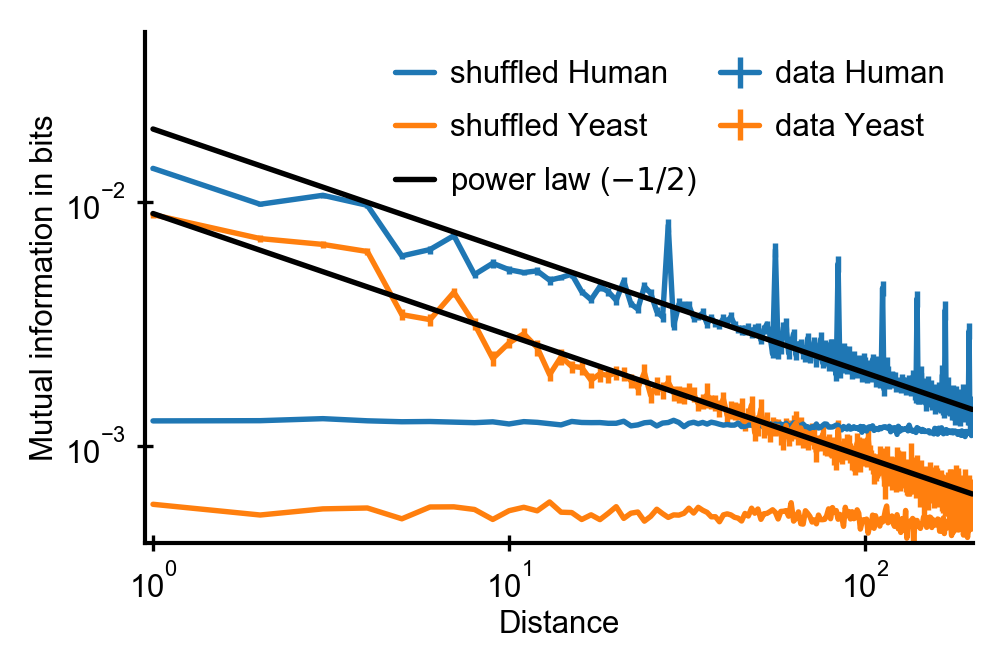
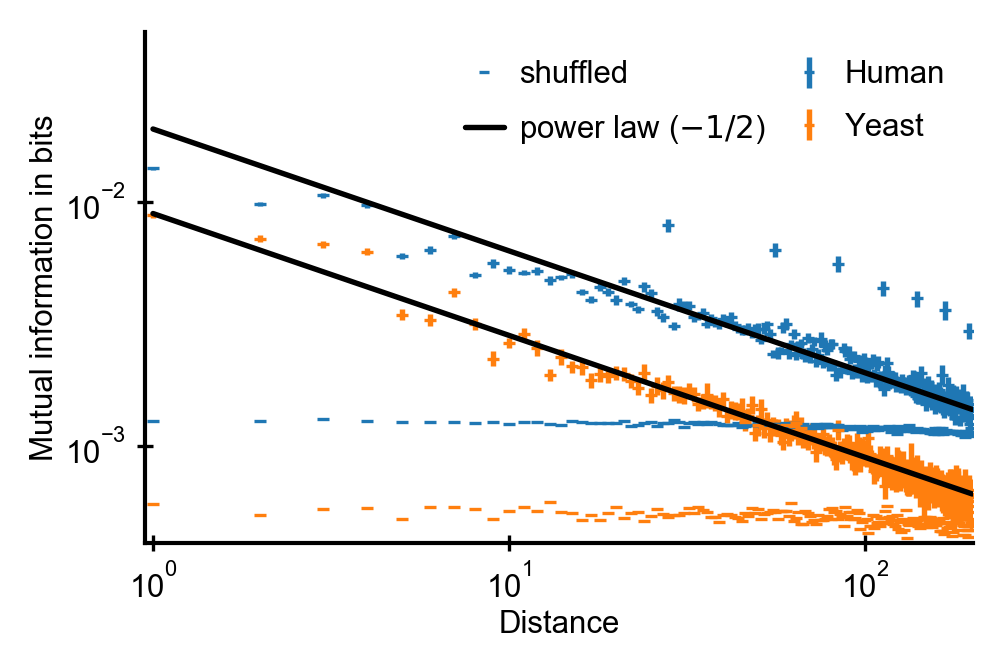
updated docs

diff --git a/docs/code/tissuedistributions/run.py b/docs/code/tissuedistributions/run.py
@@ -1,0 +1,41 @@
+import numpy as np
+import pandas as pd
+
+import sys
+sys.path.append('../')
+from lib import *
+
+proteinatlas = pd.read_csv('../../data/proteinatlas.tsv.zip', sep='\t')
+tissues = [c for c in proteinatlas.columns if 'Tissue' in c]
+proteinatlas.fillna(0, inplace=True)
+
+humanproteome = load_proteome_as_df('Human')
+humanproteome = humanproteome[~(humanproteome['Gene'] == '')]
+humanproteome = humanproteome.set_index('Gene')
+humanproteome = humanproteome.squeeze()
+
+missing = set(proteinatlas['Gene'].unique()) - set(humanproteome.index)
+
+proteinatlas = proteinatlas[~proteinatlas['Gene'].isin(missing)]
+proteinatlas[tissues] = proteinatlas[tissues].div(proteinatlas[tissues].sum(axis=0), axis=1)
+
+def generator(N, k, p):
+    counter = 0
+    while counter < N:
+        sequence = humanproteome.loc[np.random.choice(proteinatlas['Gene'], p=p)]
+        if len(sequence)>k:
+            startindex = np.random.randint(0, len(sequence)-k)
+            counter += 1
+            yield sequence[startindex:startindex+k]
+
+freqs = {}
+df = Counter(proteome_path('Human'), 1).to_df()
+df.set_index('seq', inplace=True)
+df = df.squeeze()
+freqs['All'] = df
+for tissue in tissues:
+    df = Counter(generator(5000, 9, np.array(proteinatlas[tissue])), 1).to_df()
+    df.set_index('seq', inplace=True)
+    df = df.squeeze()
+    freqs[tissue] = df
+pd.DataFrame(freqs).to_csv('freqs.csv', index=True)

diff --git a/docs/code/tissuedistributions/plot.py b/docs/code/tissuedistributions/plot.py
@@ -1,0 +1,32 @@
+import numpy as np
+import pandas as pd
+import matplotlib.pyplot as plt
+import re
+
+import sys
+sys.path.append('../')
+from lib import *
+plt.style.use('../peptidome.mplstyle')
+
+freqs = pd.read_csv('freqs.csv', index_col=0)
+tissues = [c for c in freqs.columns if 'Tissue' in c]
+
+fig, ax = plt.subplots(figsize=(4, 4))
+xmin, xmax = 0.5*np.amin(freqs['All']), 2*np.amax(freqs['All'])
+x = np.logspace(np.log10(xmin), np.log10(xmax))
+ax.plot(x, x, 'k', lw=3)
+ax.plot(x, x*2, '--k', lw=2)
+ax.set_xlim(xmin, xmax)
+ax.set_ylim(xmin, xmax)
+ax.plot(x, x/2, '--k', lw=2)
+for tissue in np.random.choice(tissues, 5, replace=False):
+    ax.plot(freqs['All'], freqs[tissue], 'o', label=tissue.split('-')[-1][:-5])
+ax.legend(title='Tissue')
+ax.set_xscale('log')
+ax.set_yscale('log')
+ax.set_xlabel('Frequency unweighted')
+ax.set_ylabel('Frequency weighted by expression')
+fig.tight_layout()
+fig.savefig('main.png')
+plt.show()
+

diff --git a/docs/code/mivsdist/plot_loglog.py b/docs/code/mivsdist/plot_loglog.py
@@ -11,9 +11,10 @@ fig, ax = plt.subplots()
 for species in ['Human', 'Yeast']:
     df = pd.read_csv('data/mutualinformation-%s.csv'%species)
     err = ax.errorbar(df['gaps']+1, df['mutualinformation'],
-            2*df['mutualinformation_std'], label='data '+species)
-    ax.plot(df['gaps']+1, df['shuffledmutualinformation'],
-            label='shuffled '+species, c=err.lines[0].get_color())
+            2*df['mutualinformation_std'], fmt='_', label=species, ms=3)
+    print(np.sum(df['mutualinformation']))
+    ax.plot(df['gaps']+1, df['shuffledmutualinformation'], '_', ms=3,
+            label=('shuffled') if species == 'Human' else '', c=err.lines[0].get_color())
 d = np.linspace(1, 200)
 #ax.plot(d, 0.005*np.exp(-d/50), zorder=10, label='exponential ($d_c=50$)')
 l, = ax.plot(d, 0.02*d**-.5, zorder=10, c='k', label=r'power law ($-1/2$)')

diff --git a/docs/_posts/2019-10-10-tissuedistributions.md b/docs/_posts/2019-10-10-tissuedistributions.md
@@ -1,0 +1,227 @@
+---
+layout: post
+title: Tissue distributions
+---
+
+Do the average protein features vary accross tissues?
+
+
+{% include post-image-gallery.html filter="tissuedistributions/" %}
+
+### Code 
+#### tissuedistribution.ipynb
+
+
+
+```python
+import numpy as np
+import pandas as pd
+import matplotlib.pyplot as plt
+import re
+
+import sys
+sys.path.append('../')
+from lib import *
+plt.style.use('../peptidome.mplstyle')
+```
+
+
+```python
+proteinatlas = pd.read_csv('../../data/proteinatlas.tsv.zip', sep='\t')
+tissues = [c for c in proteinatlas.columns if 'Tissue' in c]
+proteinatlas[tissues] = proteinatlas[tissues].div(proteinatlas[tissues].sum(axis=0), axis=1)
+proteinatlas.fillna(0, inplace=True)
+```
+
+
+```python
+bins = np.linspace(-7, -2, 100)
+for tissue in tissues:
+    plt.hist(np.log10(1e-7+proteinatlas[tissue]), histtype='step', bins=bins)
+plt.yscale('log')
+```
+
+
+![png](notebook_files/tissuedistribution_2_0.png)
+
+
+
+```python
+humanproteome = load_proteome_as_df('Human')
+humanproteome = humanproteome[~(humanproteome['Gene'] == '')]
+humanproteome = humanproteome.set_index('Gene')
+humanproteome = humanproteome.squeeze()
+```
+
+
+```python
+missing = set(proteinatlas['Gene'].unique()) - set(humanproteome.index)
+```
+
+
+```python
+proteinatlas = proteinatlas[~proteinatlas['Gene'].isin(missing)]
+proteinatlas[tissues] = proteinatlas[tissues].div(proteinatlas[tissues].sum(axis=0), axis=1)
+```
+
+
+```python
+%timeit -t humanproteome.loc[np.random.choice(proteinatlas['Gene'], p=proteinatlas[tissues[3]])]
+```
+
+    505 µs ± 1.55 µs per loop (mean ± std. dev. of 7 runs, 1000 loops each)
+
+
+
+```python
+def generator(N, k, p):
+    counter = 0
+    while counter < N:
+        sequence = humanproteome.loc[np.random.choice(proteinatlas['Gene'], p=p)]
+        if len(sequence)>k:
+            startindex = np.random.randint(0, len(sequence)-k)
+            counter += 1
+            yield sequence[startindex:startindex+k]
+```
+
+
+```python
+freqs = {}
+for tissue in tissues:
+    df = Counter(generator(1000, 9, np.array(proteinatlas[tissue])), 1).to_df()
+    df.set_index('seq', inplace=True)
+    df = df.squeeze()
+    freqs[tissue] = df
+```
+
+
+```python
+df = Counter(proteome_path('Human'), 1).to_df()
+df.set_index('seq', inplace=True)
+df = df.squeeze()
+freqs['All'] = df
+```
+
+
+```python
+fig, ax = plt.subplots(figsize=(4, 4))
+xmin, xmax = 0.5*np.amin(freqall), 2*np.amax(freqall)
+x = np.logspace(np.log10(xmin), np.log10(xmax))
+ax.plot(x, x, 'k', lw=3)
+ax.plot(x, x*2, '--k', lw=3)
+ax.set_xlim(xmin, xmax)
+ax.set_ylim(xmin, xmax)
+ax.plot(x, x/2, '--k', lw=3)
+for tissue in np.random.choice(tissues, 5):
+    ax.plot(freqs['All'], freqs[tissue], 'o', ms=1, label=tissue.split('-')[-1][:-5])
+ax.legend()
+ax.set_xscale('log')
+ax.set_yscale('log')
+ax.set_xlabel('frequency human')
+ax.set_ylabel('frequency ')
+fig.tight_layout()
+fig.savefig('main.png')
+
+```
+
+
+![png](notebook_files/tissuedistribution_10_0.png)
+
+
+
+```python
+pd.DataFrame(freqs).to_csv('freqs.csv', index=True)
+```
+
+
+```python
+np.random.choice?
+```
+
+
+```python
+
+```
+#### run.py
+
+```python
+import numpy as np
+import pandas as pd
+
+import sys
+sys.path.append('../')
+from lib import *
+
+proteinatlas = pd.read_csv('../../data/proteinatlas.tsv.zip', sep='\t')
+tissues = [c for c in proteinatlas.columns if 'Tissue' in c]
+proteinatlas.fillna(0, inplace=True)
+
+humanproteome = load_proteome_as_df('Human')
+humanproteome = humanproteome[~(humanproteome['Gene'] == '')]
+humanproteome = humanproteome.set_index('Gene')
+humanproteome = humanproteome.squeeze()
+
+missing = set(proteinatlas['Gene'].unique()) - set(humanproteome.index)
+
+proteinatlas = proteinatlas[~proteinatlas['Gene'].isin(missing)]
+proteinatlas[tissues] = proteinatlas[tissues].div(proteinatlas[tissues].sum(axis=0), axis=1)
+
+def generator(N, k, p):
+    counter = 0
+    while counter < N:
+        sequence = humanproteome.loc[np.random.choice(proteinatlas['Gene'], p=p)]
+        if len(sequence)>k:
+            startindex = np.random.randint(0, len(sequence)-k)
+            counter += 1
+            yield sequence[startindex:startindex+k]
+
+freqs = {}
+df = Counter(proteome_path('Human'), 1).to_df()
+df.set_index('seq', inplace=True)
+df = df.squeeze()
+freqs['All'] = df
+for tissue in tissues:
+    df = Counter(generator(5000, 9, np.array(proteinatlas[tissue])), 1).to_df()
+    df.set_index('seq', inplace=True)
+    df = df.squeeze()
+    freqs[tissue] = df
+pd.DataFrame(freqs).to_csv('freqs.csv', index=True)
+
+```
+#### plot.py
+
+```python
+import numpy as np
+import pandas as pd
+import matplotlib.pyplot as plt
+import re
+
+import sys
+sys.path.append('../')
+from lib import *
+plt.style.use('../peptidome.mplstyle')
+
+freqs = pd.read_csv('freqs.csv', index_col=0)
+tissues = [c for c in freqs.columns if 'Tissue' in c]
+
+fig, ax = plt.subplots(figsize=(4, 4))
+xmin, xmax = 0.5*np.amin(freqs['All']), 2*np.amax(freqs['All'])
+x = np.logspace(np.log10(xmin), np.log10(xmax))
+ax.plot(x, x, 'k', lw=3)
+ax.plot(x, x*2, '--k', lw=2)
+ax.set_xlim(xmin, xmax)
+ax.set_ylim(xmin, xmax)
+ax.plot(x, x/2, '--k', lw=2)
+for tissue in np.random.choice(tissues, 5, replace=False):
+    ax.plot(freqs['All'], freqs[tissue], 'o', label=tissue.split('-')[-1][:-5])
+ax.legend(title='Tissue')
+ax.set_xscale('log')
+ax.set_yscale('log')
+ax.set_xlabel('Frequency unweighted')
+ax.set_ylabel('Frequency weighted by expression')
+fig.tight_layout()
+fig.savefig('main.png')
+plt.show()
+
+
+```

diff --git a/docs/_posts/2019-10-07-mivsdist.md b/docs/_posts/2019-10-07-mivsdist.md
@@ -106,9 +106,10 @@ fig, ax = plt.subplots()
 for species in ['Human', 'Yeast']:
     df = pd.read_csv('data/mutualinformation-%s.csv'%species)
     err = ax.errorbar(df['gaps']+1, df['mutualinformation'],
-            2*df['mutualinformation_std'], label='data '+species)
-    ax.plot(df['gaps']+1, df['shuffledmutualinformation'],
-            label='shuffled '+species, c=err.lines[0].get_color())
+            2*df['mutualinformation_std'], fmt='_', label=species, ms=3)
+    print(np.sum(df['mutualinformation']))
+    ax.plot(df['gaps']+1, df['shuffledmutualinformation'], '_', ms=3,
+            label=('shuffled') if species == 'Human' else '', c=err.lines[0].get_color())
 d = np.linspace(1, 200)
 #ax.plot(d, 0.005*np.exp(-d/50), zorder=10, label='exponential ($d_c=50$)')
 l, = ax.plot(d, 0.02*d**-.5, zorder=10, c='k', label=r'power law ($-1/2$)')
